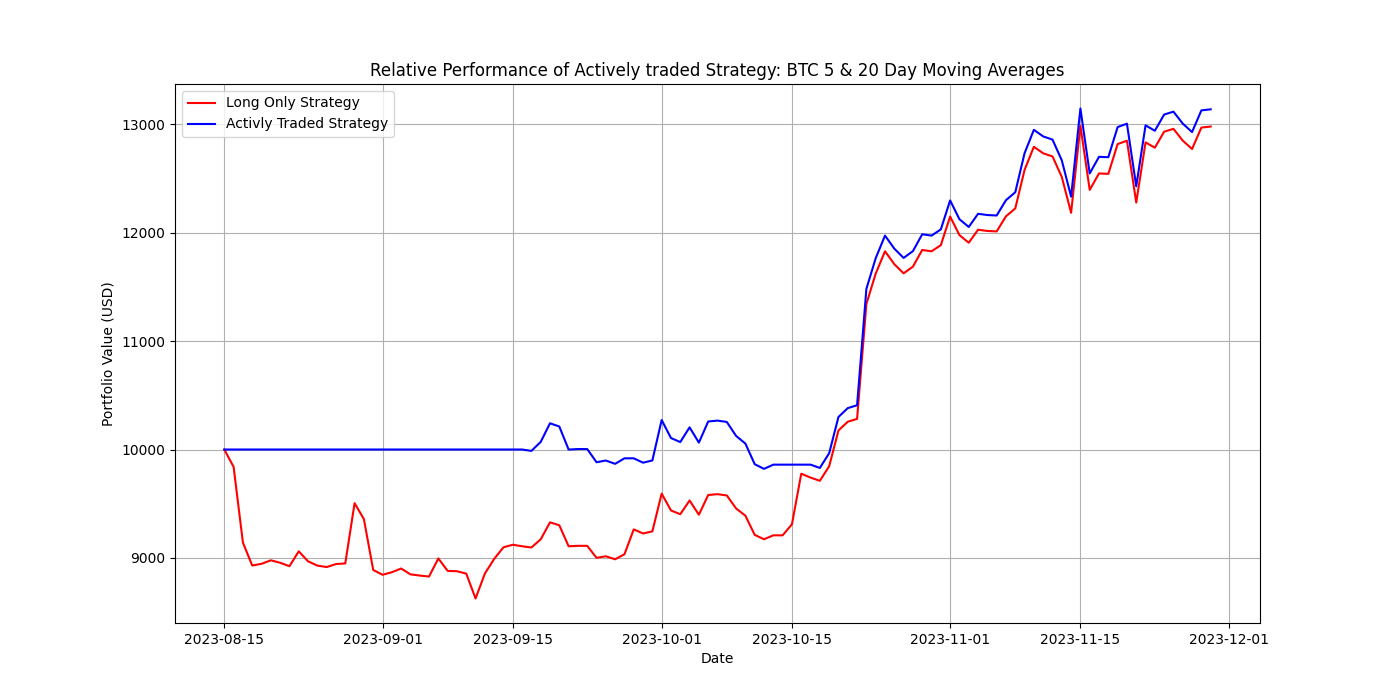
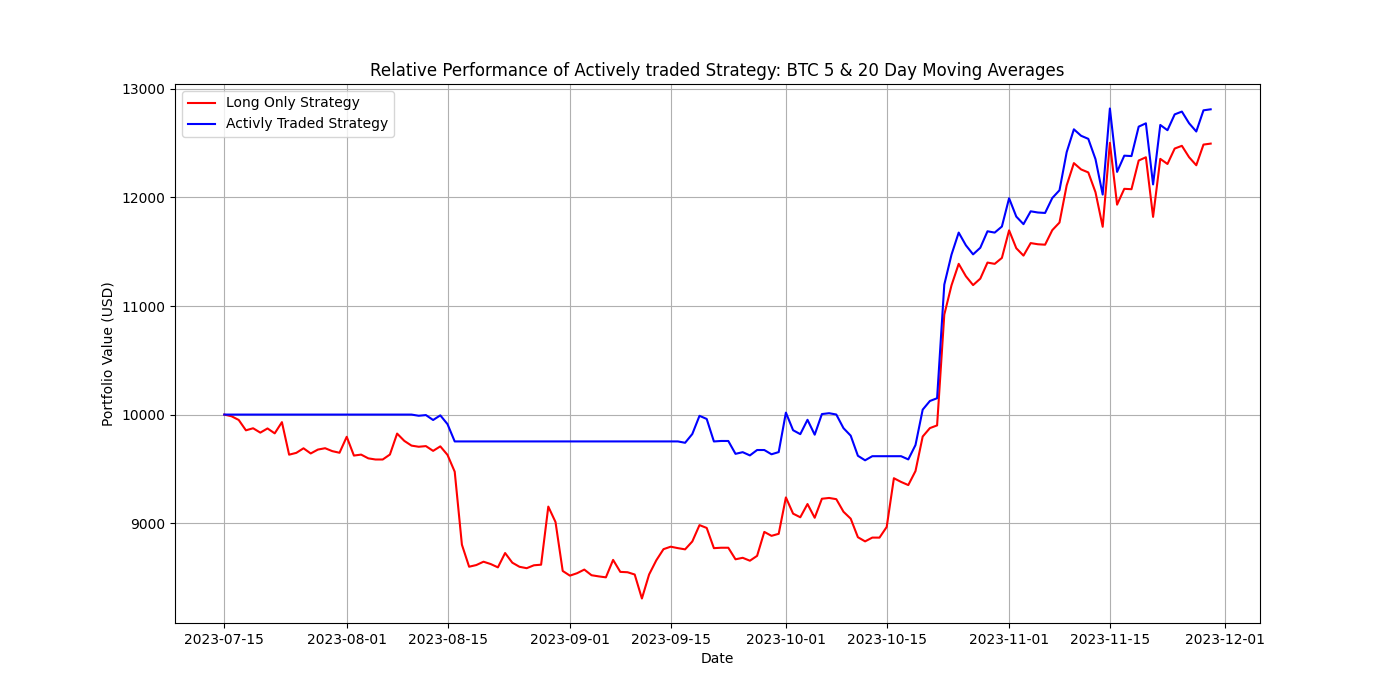
latest run

diff --git a/strategy_testing.py b/strategy_testing.py
@@ -11,7 +11,7 @@ ticker = "BTC-USD"
 
 #date ranges of data  
 end_date = "2023-11-30"
-start_date = "2023-08-15"
+start_date = "2023-07-15"
 inital_capital = 10000
 
 # #obtain data as dictionary of dataframes => {asset: DataFrame}
